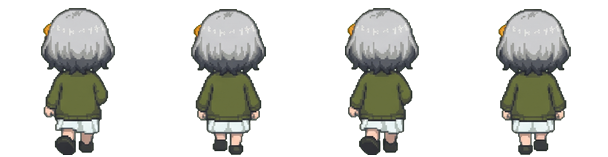
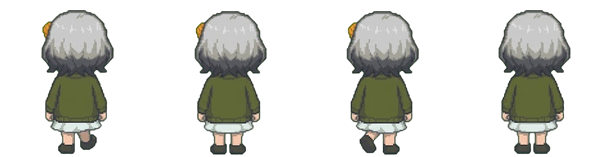
뒷모습 걷기를 새 시트로 교체
새 Gemini 뒷모습 시트(src/seoha_walk_back.jpg): 두 발 크기가 같고 보폭이 작음.
크기는 뒷모습 대기와 머리 높이로 맞춤.

Claude-Session: https://claude.ai/code/session_01MBgVgKbFxkEXND4zuEcjdV

diff --git a/README.md b/README.md
@@ -42,7 +42,7 @@ tests/         test_runner.tscn  자동 점검
 - 살금살금: sneak_left / sneak_right (`walk(dir, true)`)
 - 특수: take_pill, hide_pill, fake_swallow, startle, step_back_left/right, cry, sad, crouch_look, happy, wave, point_left/right
 - 앉기: sit_bench, write, piano (피아노·책상 같은 소품은 따로 배치)
-- 원본: `tools/sprite_cleanup/src/` 의 Gemini 시트 7장 (단색 초록 배경)
+- 원본: `tools/sprite_cleanup/src/` 의 Gemini 시트 8장 (단색 초록 배경)
 - 정리: `python3 tools/sprite_cleanup/clean_chroma.py tools/sprite_cleanup/seoha_v2.json assets/art/characters/seoha`
   → 초록 배경 제거, 조개 핀 위치 맞춤, 캐릭터 크기 통일, 발바닥 정렬. 프레임 위치는 json에 (시트, 줄, 칸)으로 적습니다.
   체크무늬 배경 시트는 `clean_sheet.py`를 씁니다. 두 스크립트 모두 Python과 numpy, scipy, Pillow가 필요합니다.
